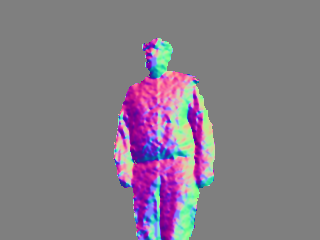
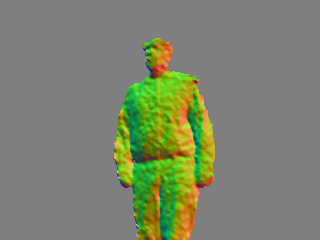
normalshade: use real-world 3d points to compute normals
Do not perform pseudo-3d.

Changed region(s): [[0.3438, 0.1458, 0.6875, 1.0]]

diff --git a/examples/normalshade.py b/examples/normalshade.py
@@ -41,7 +41,10 @@ def main():
 
         # Copy points to numpy array
         points = frame.points[:]
-        point_labels = frame.point_labels[:]
+
+        # Create NxMx3 "point map"
+        point_map = np.zeros(depth.shape + (3,))
+        point_map[depth != 0, :] = points
 
         # Overall normal image
         normals = np.zeros(depth.shape + (3,))
@@ -49,8 +52,8 @@ def main():
         # Extract each user from the depth image
         for user in frame.users:
             user_mask = label == user._v_attrs.idx
-            user_depths = np.where(user_mask, depth, 0)
-            user_normals = compute_normals(user_depths)
+            user_points = np.where(np.dstack((user_mask,)*3), point_map, 0)
+            user_normals = compute_normals(user_points, user_mask)
             normals = np.where(np.dstack((user_mask,) * 3), user_normals, normals)
 
         # Compute a normal image
@@ -58,39 +61,41 @@ def main():
         Image.fromarray(np.clip(255*light_im, 0, 255).astype(np.uint8)).save(
             '{0}-{1:05d}.png'.format(opts['<frame-prefix>'], frame_idx))
 
-#        light_im = np.dstack((light_intensity, light_intensity, light_intensity))
-#        Image.fromarray(np.clip(255*light_im, 0, 255).astype(np.uint8)).save(
-#            '{0}-{1:05d}.png'.format(opts['<frame-prefix>'], frame_idx))
+def compute_normals(points, mask):
+    """
+    Given a NxMx3 array of points, compute a NxMx3 array of computed normals.
+    mask should be a NxM array of booleans which are true iff the corresponding
+    pixels in points are valid.
 
-def compute_normals(depths):
-    """Given a NxM array of depths, compute a NxMx3 array of computed normals."""
+    """
+    # Mask invalid points
+    points = np.copy(points)
+    for i in range(3):
+        points[np.logical_not(mask), i] = points[..., i].min()
 
-    # mask is True iff this is a valid depth pixel
-    mask = depths != 0
+    # Use a dilation filter to "grow" each point
+    grow_points = np.copy(points)
+    for i in range(4):
+        grow_points = np.where(np.dstack((mask,)*3),
+                grow_points,
+                ndi.filters.maximum_filter(grow_points, size=(3,3,1))
+        )
 
-    # convert depths to floating point
-    depths = depths.astype(np.float32)
-
-    # Use a dilation filter to "grow" depth image
-    grow_depths = np.where(mask,
-            depths,
-            ndi.morphology.grey_dilation(depths, size=7)
-    )
-
-    # Blur depth image
-    grow_depths = ndi.filters.gaussian_filter(grow_depths, 1)
+    # Blur point image
+    for i in range(3):
+        grow_points[...,i] = ndi.filters.gaussian_filter(grow_points[...,i], 1)
 
     # Compute row-wise and col-wise gradients
-    row_grads, col_grads = np.gradient(grow_depths)
+    dxdu, dxdv = np.gradient(grow_points[...,0])
+    dydu, dydv = np.gradient(grow_points[...,1])
+    dzdu, dzdv = np.gradient(grow_points[...,2])
 
-    # Compute pseudo-3d tangent vectors
-    ddx = grow_depths * 1e-3
-    ddy = -(grow_depths * 1e-3)
-    row_tangents = np.dstack((ddx, np.zeros_like(ddx), row_grads))
-    col_tangents = np.dstack((np.zeros_like(ddy), ddy, col_grads))
+    # Compute 3d tangent vectors
+    row_tangents = np.dstack((dxdu, dydu, dzdu))
+    col_tangents = -np.dstack((dxdv, dydv, dzdv)) # NB: -ve since v points along -ve y
 
     # Take cross product to compute normal
-    normals = np.cross(col_tangents, row_tangents)
+    normals = np.cross(row_tangents, col_tangents)
 
     # Normalise normals
     norm_lens = np.sqrt(np.sum(normals ** 2, axis=-1))
